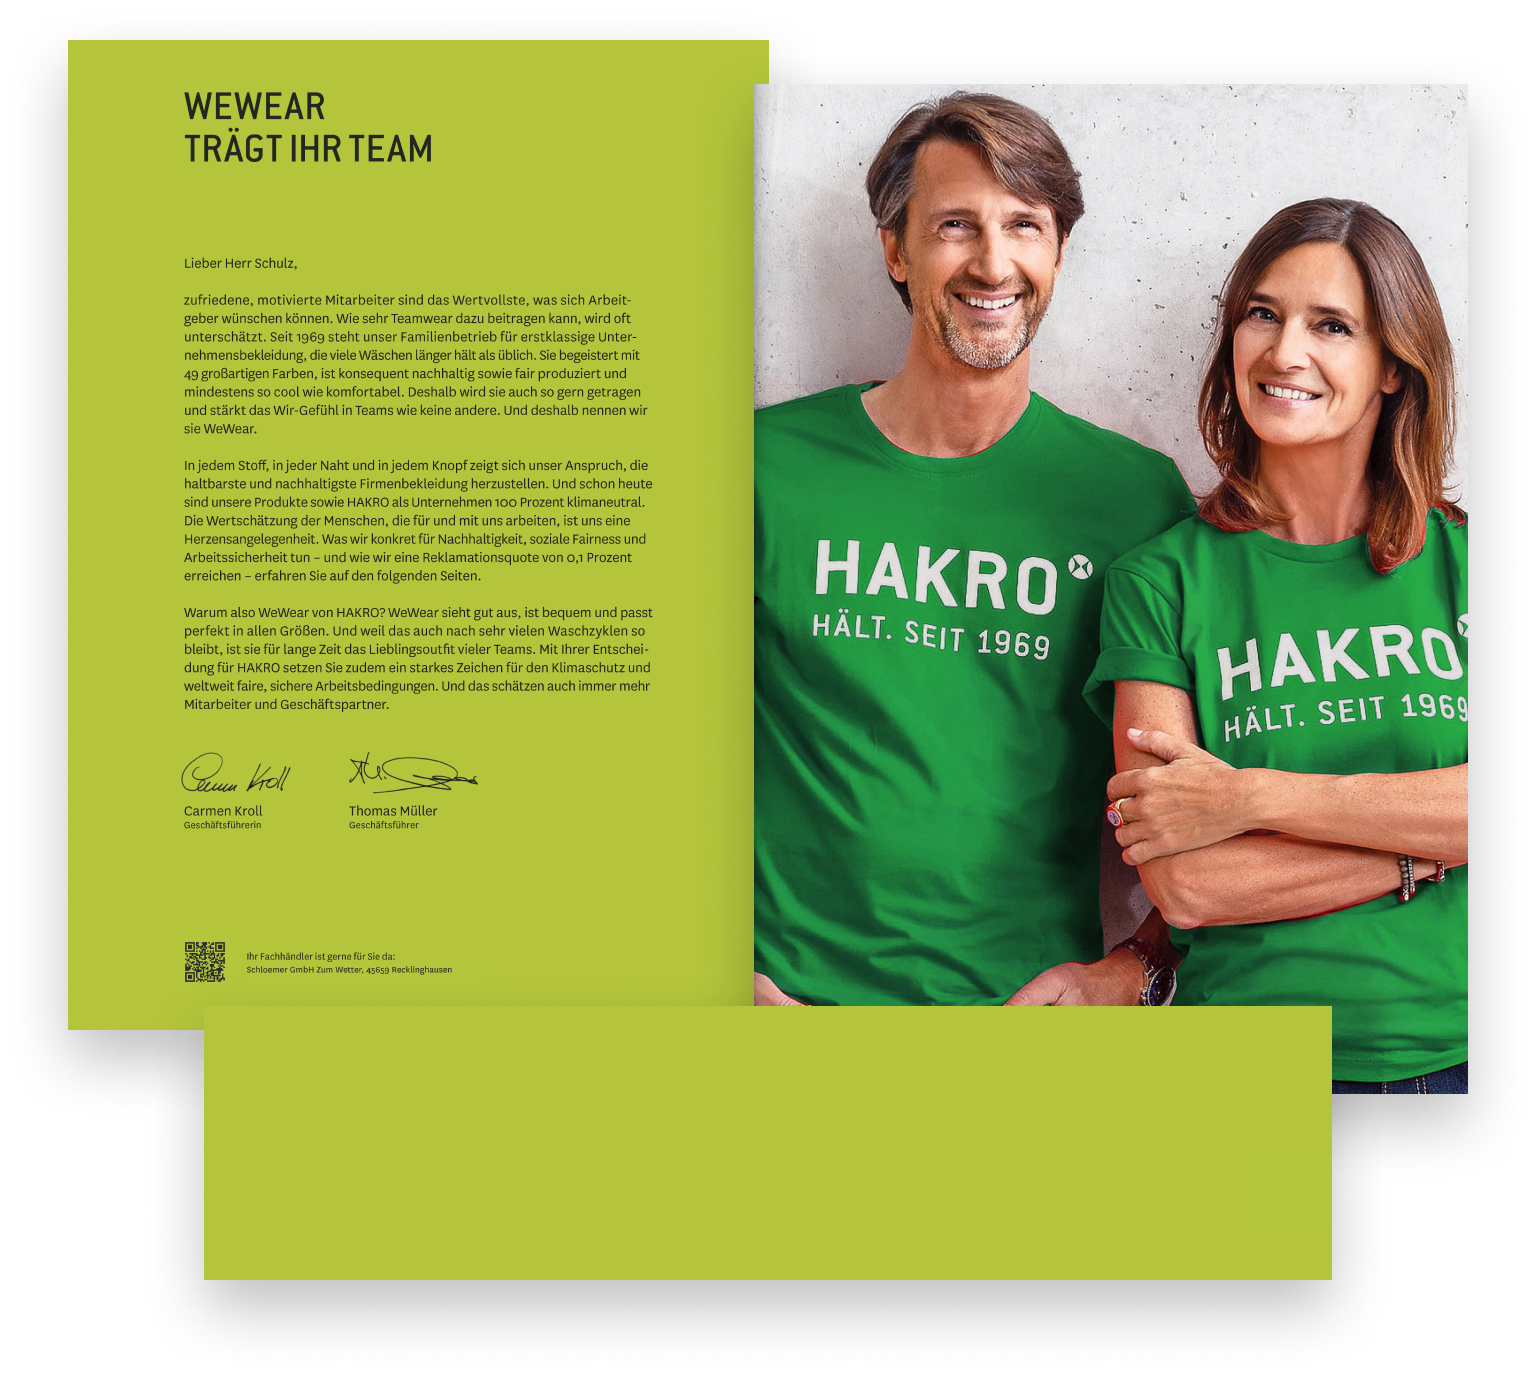
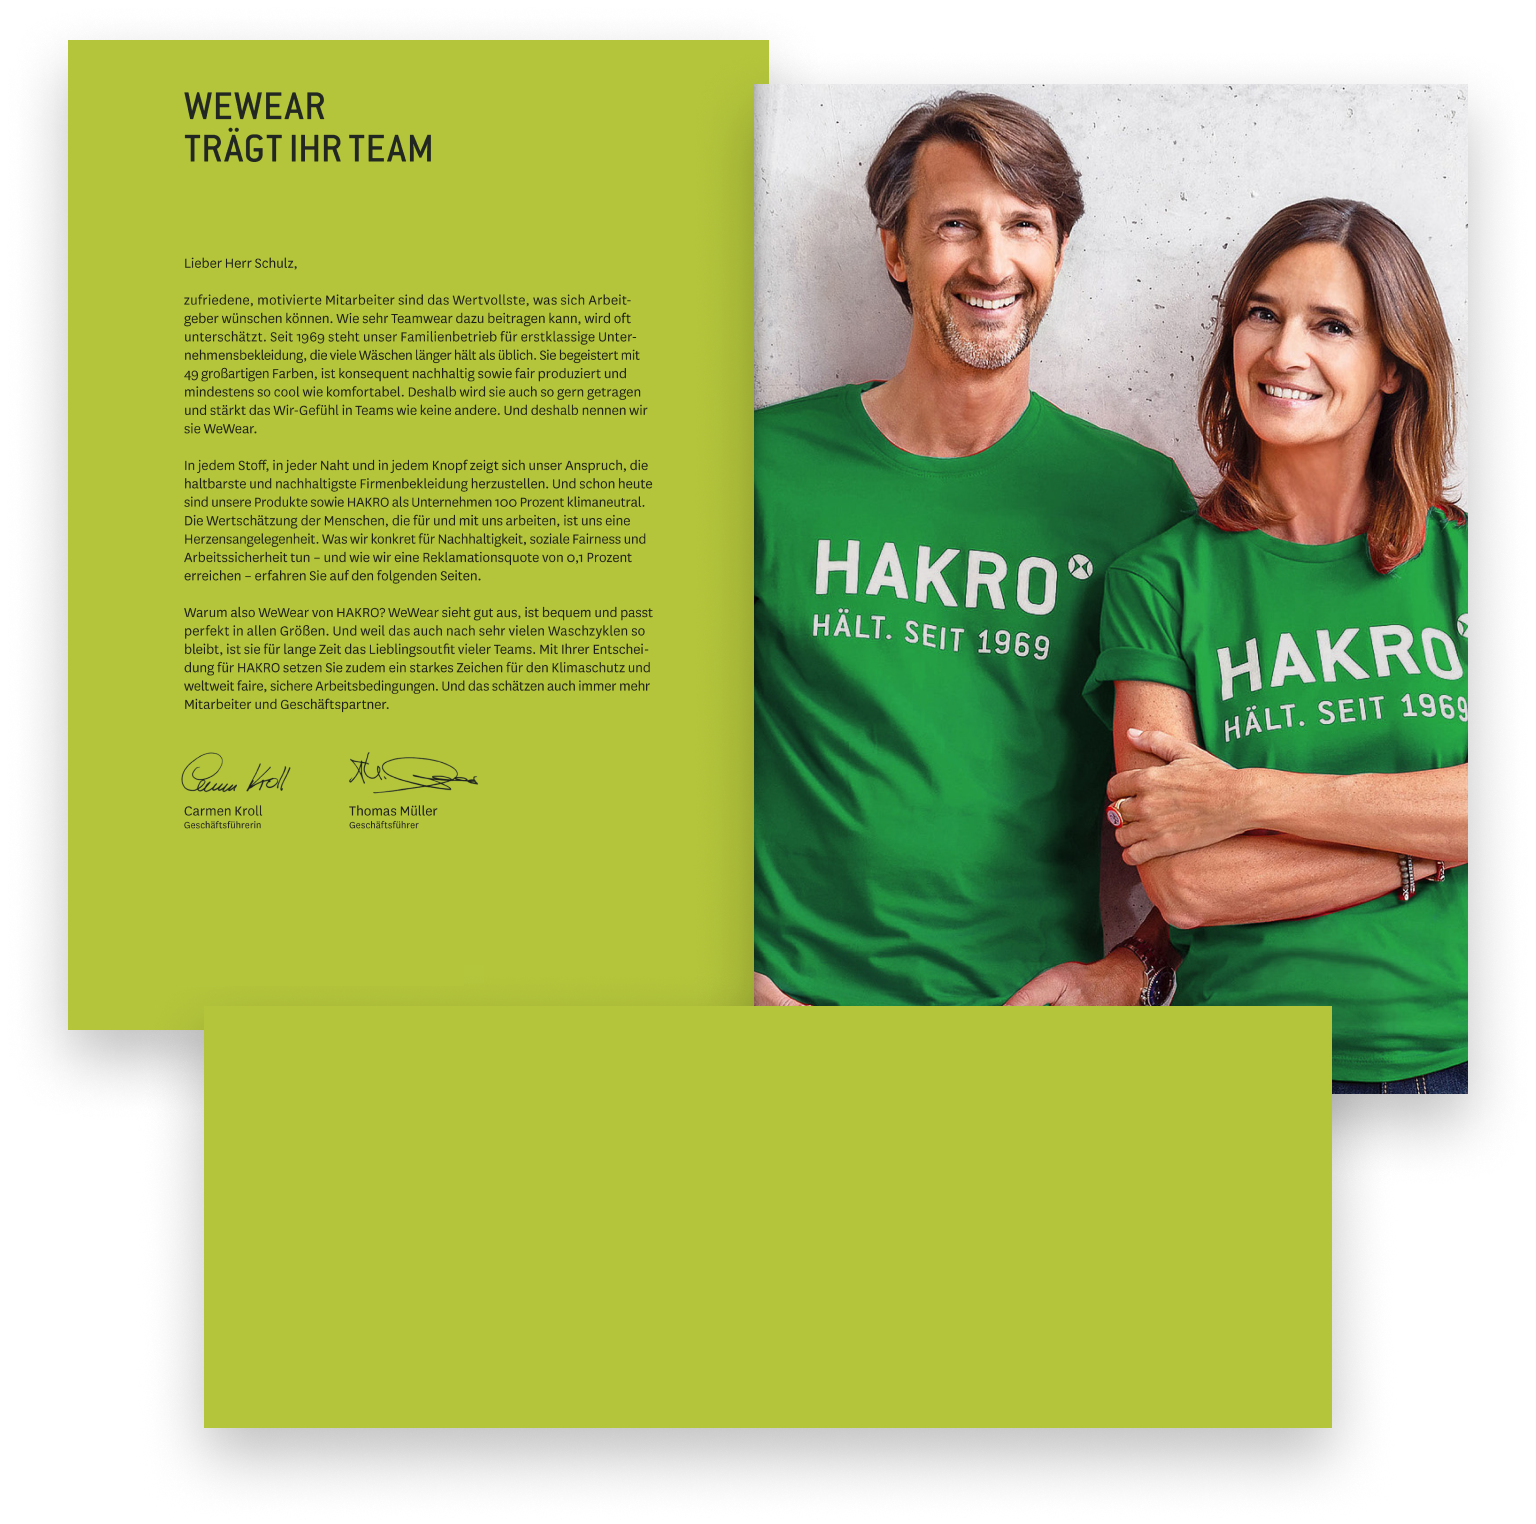
adjust preview

diff --git a/appdata/templates/summary.html b/appdata/templates/summary.html
@@ -54,10 +54,16 @@
         <div class="container">
           <img src="{{url_for('static', filename='images/vorwort_leer.png')}}" alt="" class="image_01" />
           <img src="{{ qr }}" alt="" class="overlay_qr" />
+          <img src="{{ qr }}" alt="" class="overlay_qr_small" />
           <div class="overlay_qr_text">
             <span>Ihr Fachhändler ist gerne für Sie da:</span><br />
-            <span>{{ p['costumer_name']}}, {{ p['streetname'] }}, {{ p['plz'] }}
-              {{ p['city'] }}</span>
+            <span>{{ p['costumer_name']}}<br /> {{ p['streetname'] }}<br /> {{ p['plz'] }}
+              {{ p['city'] }} <br /> {{ p['email'] }} <br /> {{ p['phone'] }} </span>
+          </div>
+          <div class="overlay_qr_text_small">
+            <span>Ihr Fachhändler ist gerne für Sie da:</span><br />
+            <span>{{ p['costumer_name']}}<br /> {{ p['streetname'] }}<br /> {{ p['plz'] }}
+              {{ p['city'] }} <br /> {{ p['email'] }} <br /> {{ p['phone'] }} </span>
           </div>
         </div>
       </div>

diff --git a/appdata/static/assets/css/hakro.css b/appdata/static/assets/css/hakro.css
@@ -339,18 +339,35 @@ input[type="reset"] {
 }
 
 .overlay_qr {
-  width: 10%;
+  width: 15%;
   position: absolute;
-  top: 78.8%;
+  top: 72.8%;
   left: 18.3%;
 }
-.overlay_qr_text {
-  font-size: 12px;
-  line-height: 20px;
-  width: 54%;
+
+.overlay_qr_small {
+  width: 4.6%;
   position: absolute;
-  top: 80.666%;
-  left: 30.09%;
+  top: 59.1%;
+  left: 11.9%;
+}
+
+.overlay_qr_text {
+  font-size: 15px;
+  line-height: 20px;
+  width: 49%;
+  position: absolute;
+  top: 71.466%;
+  left: 37.09%;
+}
+
+.overlay_qr_text_small {
+  font-size: 4.7px;
+  line-height: 6.4px;
+  width: 23%;
+  position: absolute;
+  top: 58.666%;
+  left: 17.79%;
 }
 
 .t1 {
